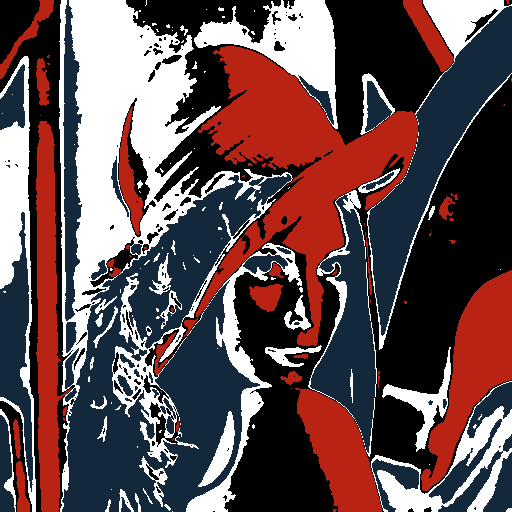
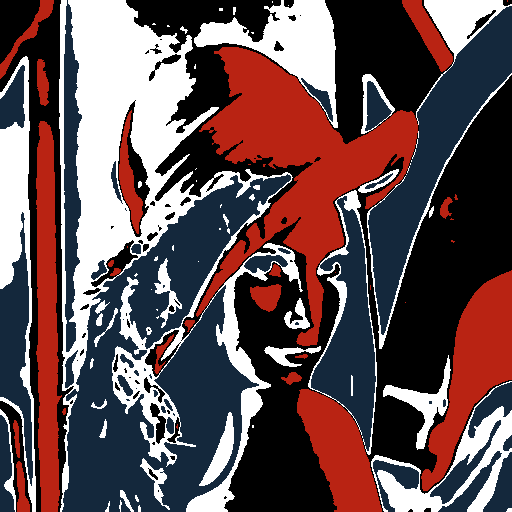
Add more blur to 4-color

diff --git a/examples/README.md b/examples/README.md
@@ -7,17 +7,17 @@ These examples of Tritonize use the [Lenna test image](http://www.ece.rice.edu/~
 ### 3-Colors
 
 ```shell
-python tritonize.py -i Lenna.png --c "#1a1a1a" "#FFFFFF" "#2c3e50" -b 10
+python tritonize.py -i Lenna.png -c "#1a1a1a" "#FFFFFF" "#2c3e50" -b 10
 ```
 
 ### 4-Colors
 
 ```shell
-python tritonize.py -i Lenna.png --c "#1a1a1a" "#FFFFFF" "#2c3e50" "#c0392b"
+python tritonize.py -i Lenna.png -c "#1a1a1a" "#FFFFFF" "#2c3e50" "#c0392b" -b 6
 ```
 
 ### 5-Colors
 
 ```shell
-python tritonize.py -i Lenna.png --c "#1a1a1a" "#FFFFFF" "#2c3e50" "#c0392b" "#7f8c8d"
+python tritonize.py -i Lenna.png -c "#1a1a1a" "#FFFFFF" "#2c3e50" "#c0392b" "#7f8c8d"
 ```
